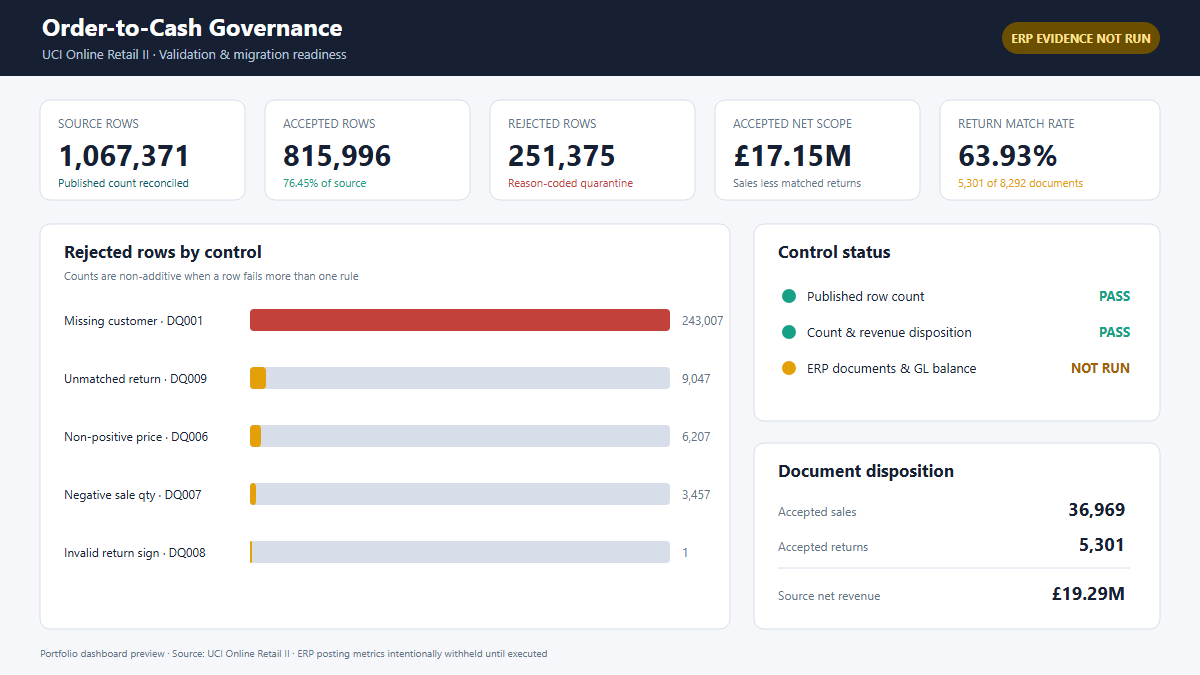
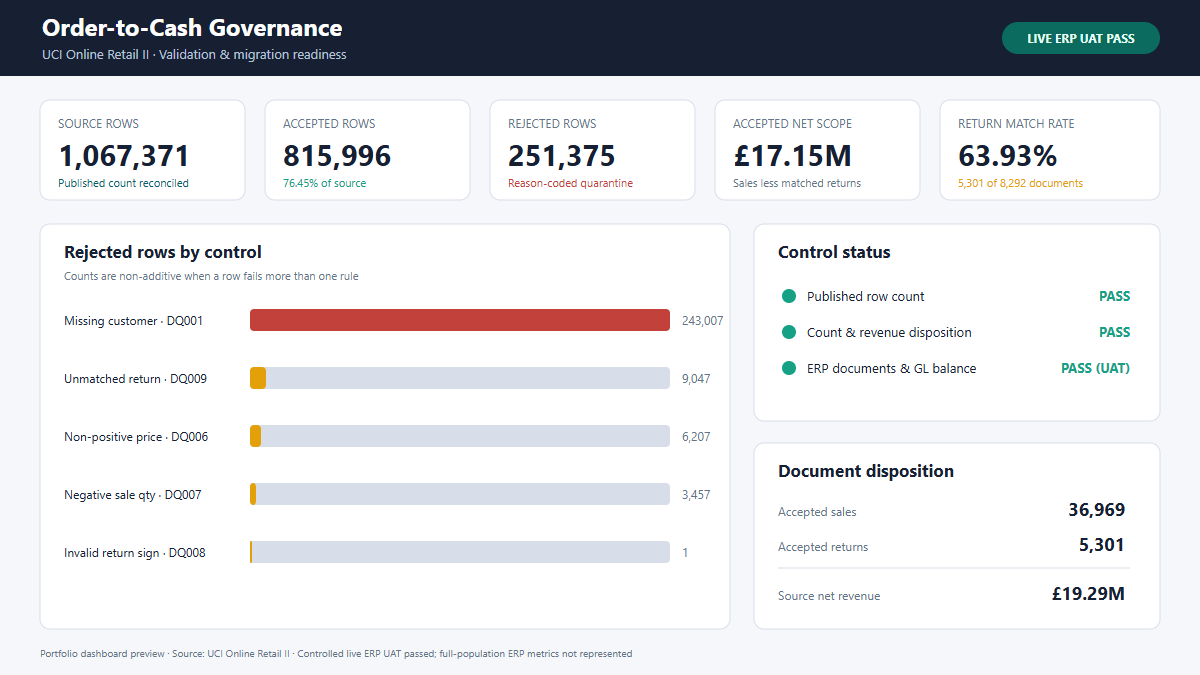
docs: publish verified UAT dashboard status

diff --git a/powerbi/dashboard_spec.md b/powerbi/dashboard_spec.md
@@ -5,7 +5,7 @@
 - KPI cards: source rows, accepted rows, rejected rows, acceptance rate, accepted net revenue, reconciliation status.
 - Monthly stacked columns: accepted/rejected rows; overlay signed revenue.
 - Control-status strip: source count, row disposition, ERP document count, revenue, GL balance, return links, access conflicts.
-- Prominent status: **ERP evidence NOT RUN** until live extracts are loaded.
+- Prominent status: **LIVE ERP UAT PASS / FULL POPULATION NOT RUN** until complete migration extracts are loaded.
 
 ## Page 2 — Data quality
 
